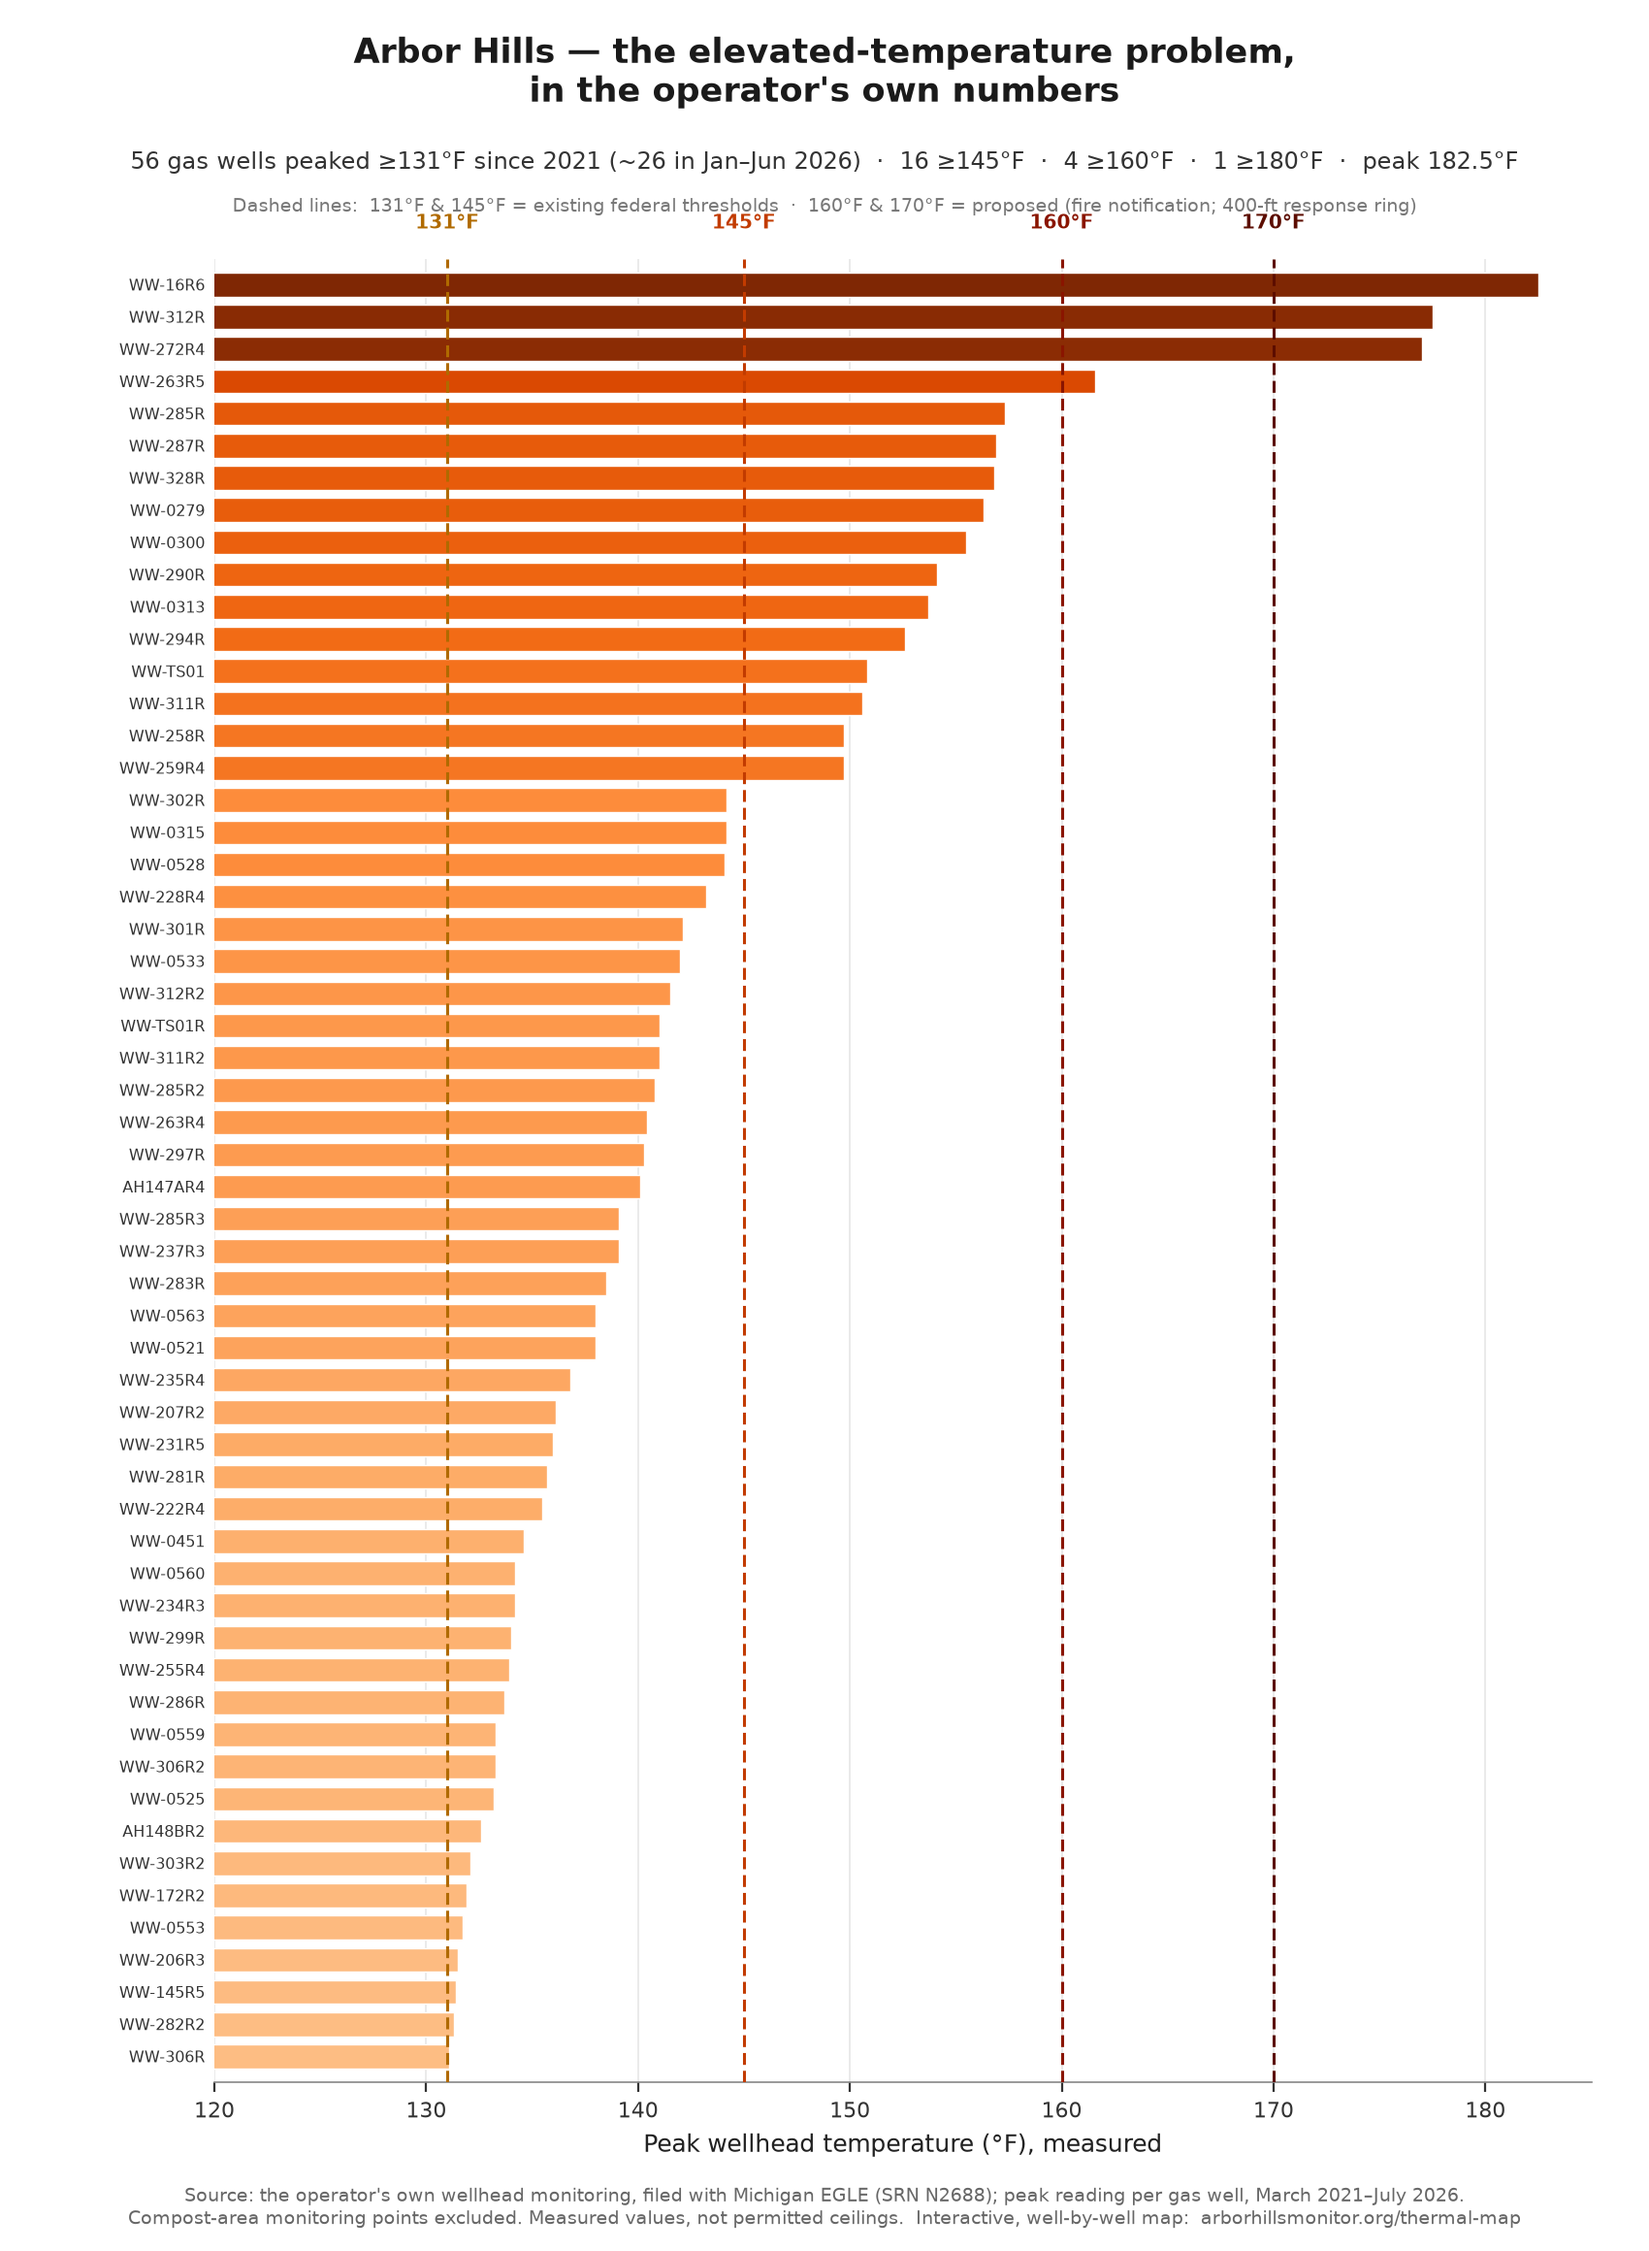
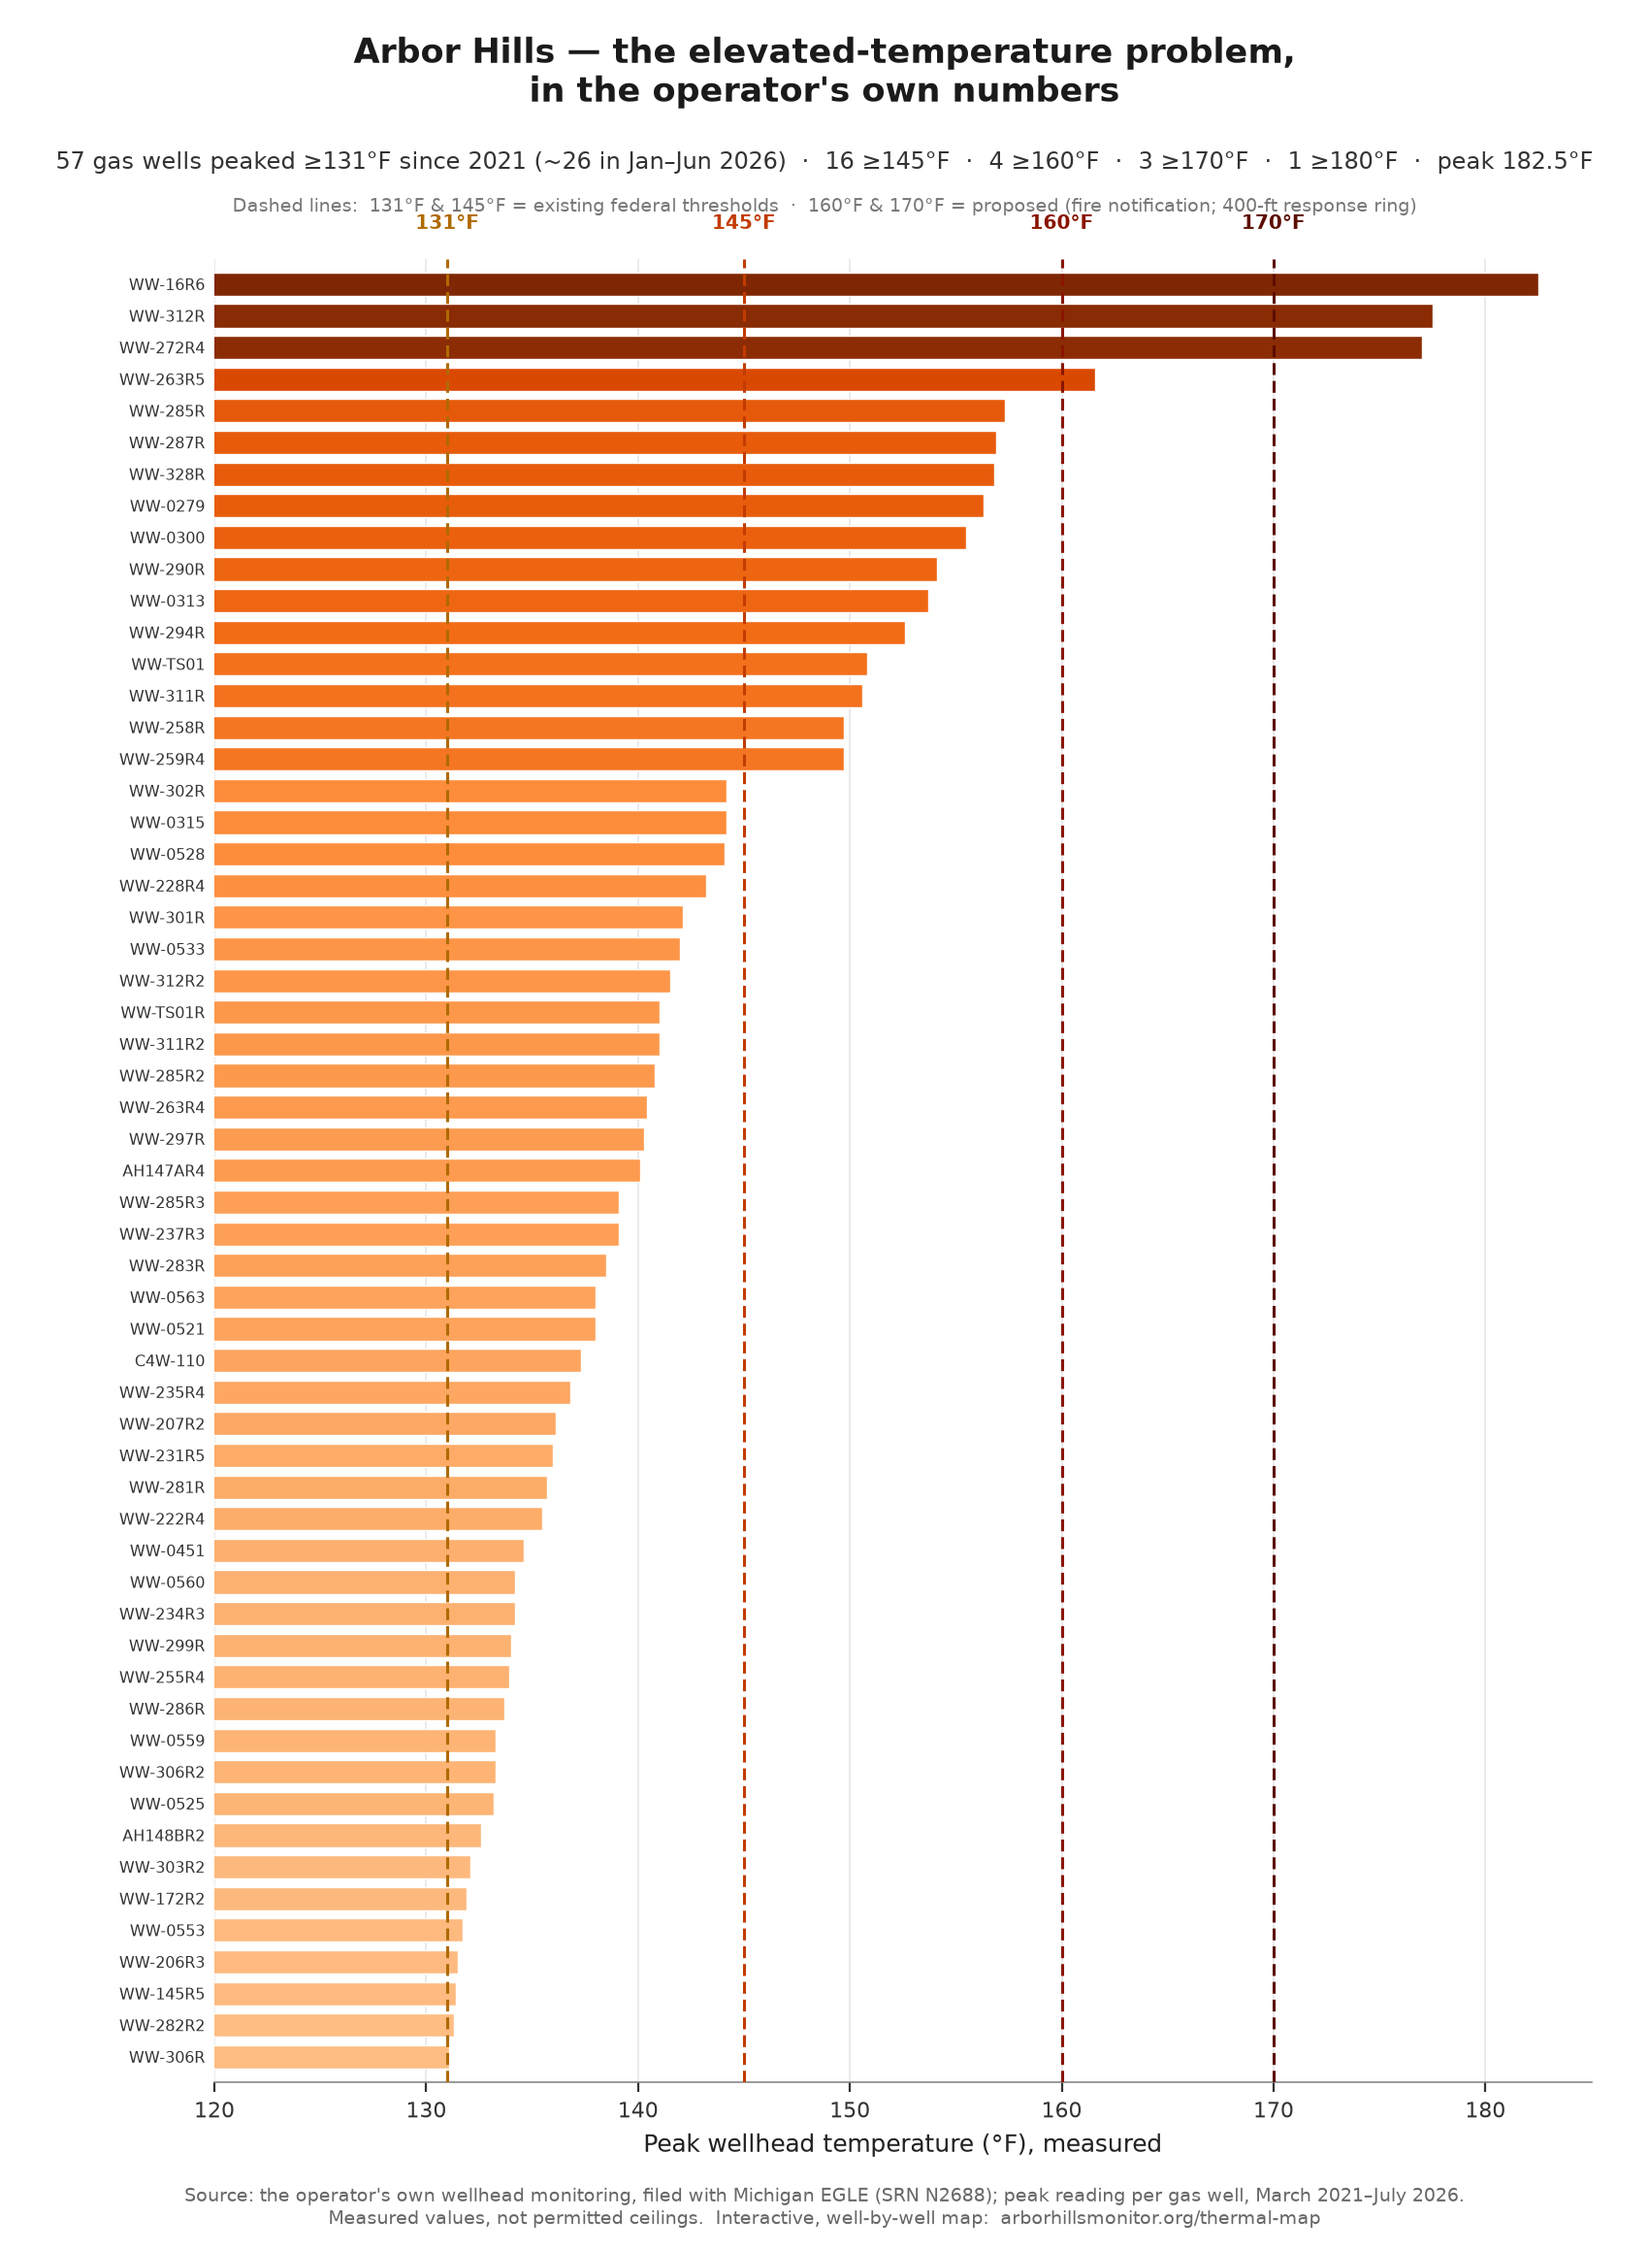
57 gas wells (AHC4W110 is a Cell 4 gas well, re-included) + 3 >=170F + 1 >=180F; SET brief bar chart now 5 half-years (2024 H1 complete with the Apr-Jun 2024 report)
Claude-Session: https://claude.ai/code/session_019bpKrb4UnJTsMraAsgaDyo

diff --git a/set-brief-2026-h1.html b/set-brief-2026-h1.html
@@ -246,8 +246,8 @@
   <p class="kicker" style="margin-top:1.2rem">Wells meeting temperature screening markers</p>
   <div class="chart-wrap">
     <svg viewBox="0 0 640 260" role="img" aria-labelledby="barchart-title barchart-desc">
-      <title id="barchart-title">Wells meeting temperature screening markers, 2024 H2 through 2026 H1</title>
-      <desc id="barchart-desc">Grouped bar chart. 2024 H2: 24 wells at or above 131 degrees F, 3 at or above 145. 2025 H1: 22 and 6. 2025 H2: 28 and 6. 2026 H1: 26 and 3.</desc>
+      <title id="barchart-title">Wells meeting temperature screening markers, 2024 H1 through 2026 H1</title>
+      <desc id="barchart-desc">Grouped bar chart. 2024 H1: 17 wells at or above 131 degrees F, 5 at or above 145. 2024 H2: 24 and 3. 2025 H1: 22 and 6. 2025 H2: 28 and 6. 2026 H1: 26 and 3.</desc>
       <style>
         .gridline { stroke: #ddd; stroke-width: 1; }
         .axislabel { fill: #666; font-size: 12px; font-family: inherit; }
@@ -270,40 +270,47 @@
       <text class="axislabel" x="34" y="84" text-anchor="end">20</text>
       <text class="axislabel" x="34" y="14" text-anchor="end">30</text>
 
+      <!-- 2024 H1: 17, 5 -->
+      <rect x="50.0" y="101" width="44" height="119" fill="#fab219" rx="2"><title>2024 H1: 17 wells ≥131°F</title></rect>
+      <text class="vallabel" x="72.0" y="95" text-anchor="middle">17</text>
+      <rect x="104.0" y="185" width="44" height="35" fill="#ec835a" rx="2"><title>2024 H1: 5 wells ≥145°F</title></rect>
+      <text class="vallabel" x="126.0" y="179" text-anchor="middle">5</text>
+      <text class="catlabel" x="99.0" y="240" text-anchor="middle">2024 H1</text>
+
       <!-- 2024 H2: 24, 3 -->
-      <rect x="64.75" y="52" width="44" height="168" fill="#fab219" rx="2"><title>2024 H2: 24 wells ≥131°F</title></rect>
-      <text class="vallabel" x="86.75" y="46" text-anchor="middle">24</text>
-      <rect x="118.75" y="199" width="44" height="21" fill="#ec835a" rx="2"><title>2024 H2: 3 wells ≥145°F</title></rect>
-      <text class="vallabel" x="140.75" y="193" text-anchor="middle">3</text>
-      <text class="catlabel" x="113.75" y="240" text-anchor="middle">2024 H2</text>
+      <rect x="168.0" y="52" width="44" height="168" fill="#fab219" rx="2"><title>2024 H2: 24 wells ≥131°F</title></rect>
+      <text class="vallabel" x="190.0" y="46" text-anchor="middle">24</text>
+      <rect x="222.0" y="199" width="44" height="21" fill="#ec835a" rx="2"><title>2024 H2: 3 wells ≥145°F</title></rect>
+      <text class="vallabel" x="244.0" y="193" text-anchor="middle">3</text>
+      <text class="catlabel" x="217.0" y="240" text-anchor="middle">2024 H2</text>
 
       <!-- 2025 H1: 22, 6 -->
-      <rect x="212.25" y="66" width="44" height="154" fill="#fab219" rx="2"><title>2025 H1: 22 wells ≥131°F</title></rect>
-      <text class="vallabel" x="234.25" y="60" text-anchor="middle">22</text>
-      <rect x="266.25" y="178" width="44" height="42" fill="#ec835a" rx="2"><title>2025 H1: 6 wells ≥145°F</title></rect>
-      <text class="vallabel" x="288.25" y="172" text-anchor="middle">6</text>
-      <text class="catlabel" x="261.25" y="240" text-anchor="middle">2025 H1</text>
+      <rect x="286.0" y="66" width="44" height="154" fill="#fab219" rx="2"><title>2025 H1: 22 wells ≥131°F</title></rect>
+      <text class="vallabel" x="308.0" y="60" text-anchor="middle">22</text>
+      <rect x="340.0" y="178" width="44" height="42" fill="#ec835a" rx="2"><title>2025 H1: 6 wells ≥145°F</title></rect>
+      <text class="vallabel" x="362.0" y="172" text-anchor="middle">6</text>
+      <text class="catlabel" x="335.0" y="240" text-anchor="middle">2025 H1</text>
 
       <!-- 2025 H2: 28, 6 -->
-      <rect x="359.75" y="24" width="44" height="196" fill="#fab219" rx="2"><title>2025 H2: 28 wells ≥131°F</title></rect>
-      <text class="vallabel" x="381.75" y="18" text-anchor="middle">28</text>
-      <rect x="413.75" y="178" width="44" height="42" fill="#ec835a" rx="2"><title>2025 H2: 6 wells ≥145°F</title></rect>
-      <text class="vallabel" x="435.75" y="172" text-anchor="middle">6</text>
-      <text class="catlabel" x="408.75" y="240" text-anchor="middle">2025 H2</text>
+      <rect x="404.0" y="24" width="44" height="196" fill="#fab219" rx="2"><title>2025 H2: 28 wells ≥131°F</title></rect>
+      <text class="vallabel" x="426.0" y="18" text-anchor="middle">28</text>
+      <rect x="458.0" y="178" width="44" height="42" fill="#ec835a" rx="2"><title>2025 H2: 6 wells ≥145°F</title></rect>
+      <text class="vallabel" x="480.0" y="172" text-anchor="middle">6</text>
+      <text class="catlabel" x="453.0" y="240" text-anchor="middle">2025 H2</text>
 
       <!-- 2026 H1: 26, 3 -->
-      <rect x="507.25" y="38" width="44" height="182" fill="#fab219" rx="2"><title>2026 H1: 26 wells ≥131°F</title></rect>
-      <text class="vallabel" x="529.25" y="32" text-anchor="middle">26</text>
-      <rect x="561.25" y="199" width="44" height="21" fill="#ec835a" rx="2"><title>2026 H1: 3 wells ≥145°F</title></rect>
-      <text class="vallabel" x="583.25" y="193" text-anchor="middle">3</text>
-      <text class="catlabel" x="556.25" y="240" text-anchor="middle">2026 H1</text>
+      <rect x="522.0" y="38" width="44" height="182" fill="#fab219" rx="2"><title>2026 H1: 26 wells ≥131°F</title></rect>
+      <text class="vallabel" x="544.0" y="32" text-anchor="middle">26</text>
+      <rect x="576.0" y="199" width="44" height="21" fill="#ec835a" rx="2"><title>2026 H1: 3 wells ≥145°F</title></rect>
+      <text class="vallabel" x="598.0" y="193" text-anchor="middle">3</text>
+      <text class="catlabel" x="571.0" y="240" text-anchor="middle">2026 H1</text>
     </svg>
   </div>
   <div class="legend">
     <span class="sw"><span class="dot" style="background:#fab219"></span>≥131°F elevated-temperature marker</span>
     <span class="sw"><span class="dot" style="background:#ec835a"></span>≥145°F federal default value</span>
   </div>
-  <p class="source-line">Source: Oct. 9, 2026 wellfield CSV release (these four periods are unchanged from the Aug. 24 data); as-found half-year maxima; HOV caveats retained. Four consecutive Wells of Interest (WOI) periods, 2024 H2–2026 H1.</p>
+  <p class="source-line">Source: Oct. 9, 2026 wellfield CSV release; as-found half-year maxima; HOV caveats retained. Five consecutive half-years, 2024 H1–2026 H1. The 2024 H1 bars are new in Version 2: that half-year became complete with the Apr–Jun 2024 operator report released in October 2026. The other four periods are unchanged from the Aug. 24 data.</p>
   <p class="caveat">The 131°F and 145°F counts are analytical screening categories. They are not a count of regulatory violations.</p>
 
   <div class="nudge blue">
@@ -424,7 +431,7 @@
     <span class="sw"><span class="ln" style="border-color:#d03b3b"></span>160°F, infrastructure begins to soften (melt)</span>
   </div>
   <p class="caveat">The line shows the maximum valid recorded wellhead temperature across all available wells in each calendar half-year. It is not an average and does not imply continuous monitoring. The source's documented AHWW/AHW prefix inconsistency is normalized to AHW for display labels only. The three dotted reference lines are visual comparison levels, not additional observations.</p>
-  <p class="source-line">Source: four consecutive WOI periods and the full 2021 H1–2026 H1 trend, recalculated from the Oct. 9, 2026 wellfield CSV release; half-year maxima use validation_ok=yes rows and all available wells. The 2021 H1, 2022 H2 and 2024 H1 points come from operator reports first released in October 2026. As filed, the 2024 H1 maximum was 154.4°F at well 0279 (May 31, 2024); that reading fails the dataset's gas-percentage sum check, so the chart shows the highest valid reading, 154.2°F at 312R.</p>
+  <p class="source-line">Source: five consecutive half-years (2024 H1–2026 H1) and the full 2021 H1–2026 H1 trend, recalculated from the Oct. 9, 2026 wellfield CSV release; half-year maxima use validation_ok=yes rows and all available wells. The 2021 H1, 2022 H2 and 2024 H1 points come from operator reports first released in October 2026. As filed, the 2024 H1 maximum was 154.4°F at well 0279 (May 31, 2024); that reading fails the dataset's gas-percentage sum check, so the chart shows the highest valid reading, 154.2°F at 312R.</p>
 
   <p class="kicker" style="margin-top:1.6rem">Early-2025 episode: highlights from filed data</p>
   <div class="episode-stats">

diff --git a/proposed-protections/index.html b/proposed-protections/index.html
@@ -275,11 +275,11 @@ footer.site-footer {
 
 <h2 id="record">Why these protections &mdash; the local record</h2>
 <p>The operator's own wellhead monitoring, filed with Michigan EGLE under SRN N2688, documents a persistent elevated-temperature condition.</p>
-<p><strong>Fifty-six gas wells have peaked at or above 131&deg;F &mdash; the wellhead-temperature threshold retained in the federal New Source Performance Standards and Emission Guidelines, and identified by EPA research as a common indicator of an elevated-temperature landfill. Approximately 26 wells reached that level in the first half of 2026. During the assembled record, 16 wells reached the NESHAP's 145&deg;F operating threshold, four reached 160&deg;F, one reached 180&deg;F, and the highest measured temperature was 182.5&deg;F.</strong></p>
+<p><strong>Fifty-seven gas wells have peaked at or above 131&deg;F &mdash; the wellhead-temperature threshold retained in the federal New Source Performance Standards and Emission Guidelines, and identified by EPA research as a common indicator of an elevated-temperature landfill. Approximately 26 wells reached that level in the first half of 2026. During the assembled record, 16 wells reached the NESHAP's 145&deg;F operating threshold, four reached 160&deg;F, three reached 170&deg;F, one reached 180&deg;F, and the highest measured temperature was 182.5&deg;F.</strong></p>
 <p class="caveat"><strong>These are wellhead readings, not downhole temperatures.</strong> Every temperature shown here is the temperature of landfill gas measured at the surface wellhead. Actual subsurface (downhole) waste temperatures can run higher, because the gas cools as it rises to the wellhead, so these readings tend to understate the reaction itself. That is one reason Protection 3 also requires in-situ, at-depth monitoring within the affected area.</p>
 
 <figure>
-  <img src="img/elevated-temperature-57-wells.png" alt="Bar chart of peak wellhead temperature for 56 Arbor Hills gas wells at or above 131 degrees Fahrenheit, against the 131, 145, 160, and 170 degree action levels; peak 182.5 degrees.">
+  <img src="img/elevated-temperature-57-wells.png" alt="Bar chart of peak wellhead temperature for 57 Arbor Hills gas wells at or above 131 degrees Fahrenheit, against the 131, 145, 160, and 170 degree action levels; peak 182.5 degrees.">
   <figcaption>Peak measured wellhead temperature by well, compared with the applicable temperature levels. The 131&deg;F line represents the federal NSPS/Emission Guidelines operating and corrective-action threshold and an EPA elevated-temperature indicator; the 145&deg;F line represents the default wellhead operating temperature under the landfill NESHAP/MACT provisions applicable at Arbor Hills. The 160&deg;F and 170&deg;F lines are proposed heightened-response levels. Source: operator monitoring filed with Michigan EGLE, March 2021&ndash;July 2026. See the well-by-well <a href="https://arborhillsmonitor.org/thermal-map/">thermal map</a>.</figcaption>
 </figure>
 
